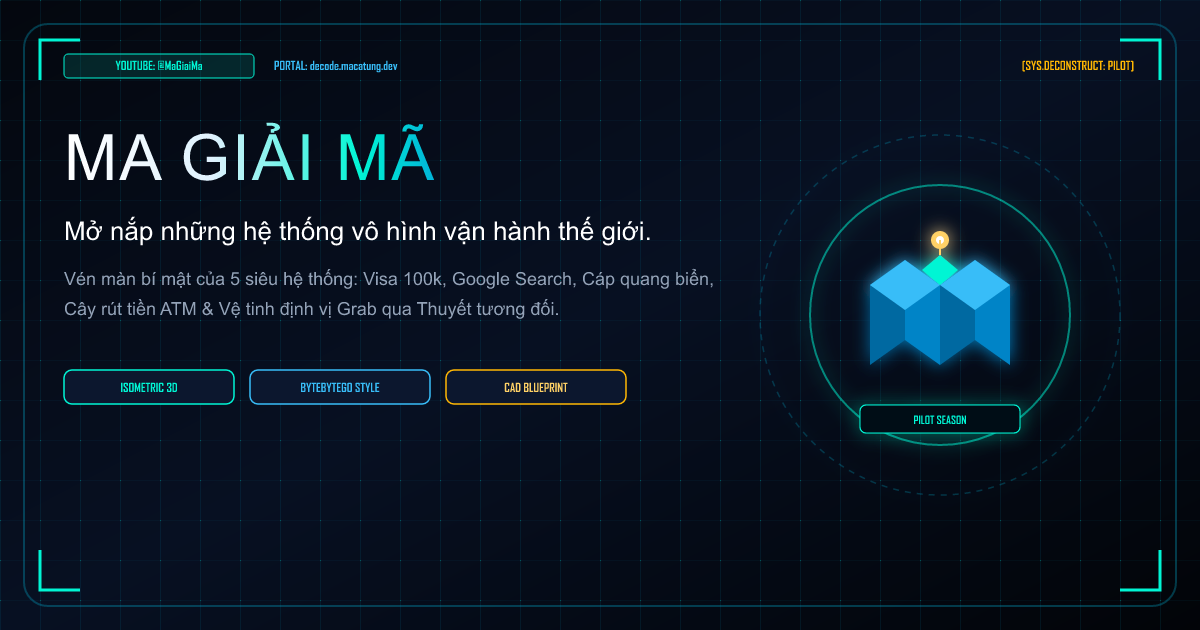
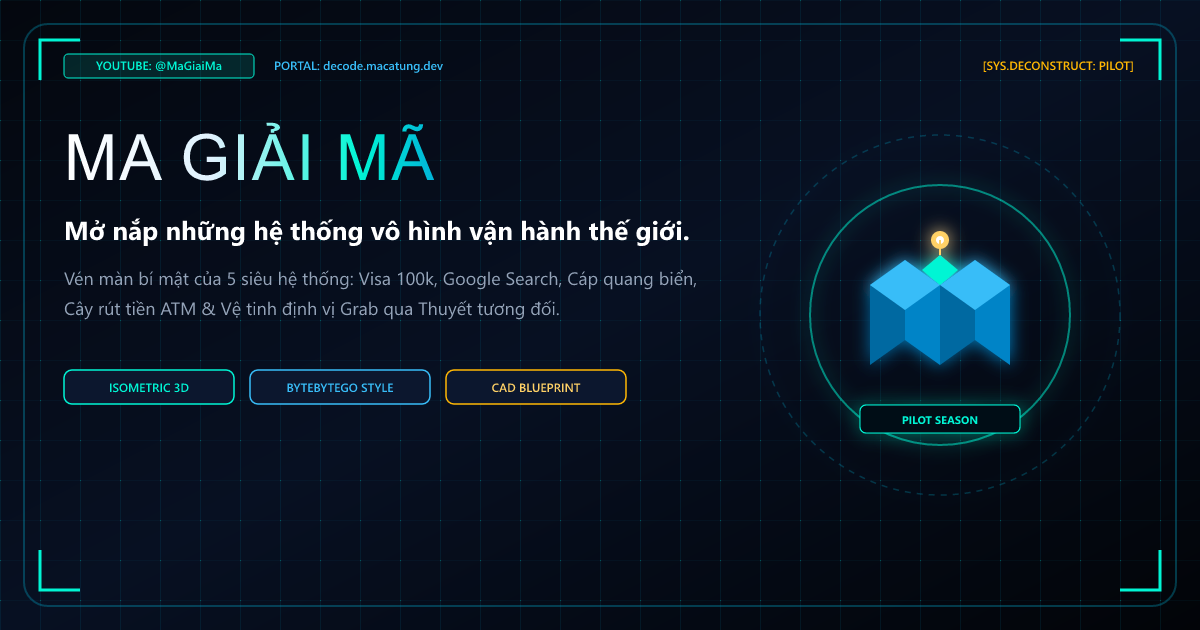
fix(brand): correct Vietnamese typography font stack and glyph fallback for Ma Giai Ma

diff --git a/tailwind.config.js b/tailwind.config.js
@@ -38,7 +38,7 @@ export default {
         sans: ['"Plus Jakarta Sans"', 'system-ui', 'sans-serif'],
         serif: ['"Lora"', '"Merriweather"', 'Georgia', 'serif'],
         pali: ['"Lora"', 'Georgia', 'serif'],
-        display: ['"Space Grotesk"', '"Syne"', 'sans-serif'],
+        display: ['"Be Vietnam Pro"', '"Plus Jakarta Sans"', '"Space Grotesk"', 'sans-serif'],
         mono: ['"JetBrains Mono"', '"Fira Code"', 'monospace'],
         rune: ['"Lora"', 'serif'],
       },

diff --git a/scripts/export_decode_brand.js b/scripts/export_decode_brand.js
@@ -78,6 +78,10 @@ for (const item of exportsList) {
       mode: 'width',
       value: item.width,
     },
+    font: {
+      loadSystemFonts: true,
+      defaultFontFamily: 'Segoe UI',
+    },
     background: item.transparent ? undefined : '#060913',
   });
 

diff --git a/public/brand/decode/README.md b/public/brand/decode/README.md
@@ -44,7 +44,7 @@ Trong hệ sinh thái thương hiệu cá nhân của **Ma Cà Tưng**, hai nhá
 
 ## 🔤 3. Quy Chuẩn Kiểu Chữ (Typography Hierarchy)
 
-- **Logo Title & Display Headlines**: `Space Grotesk` / `Syne` (Bold, Tracking-tight, sắc nét, hiện đại).
+- **Logo Title & Display Headlines**: `Be Vietnam Pro` / `Plus Jakarta Sans` / `Segoe UI` (Đậm nét, hình học hiện đại, hỗ trợ chuẩn xác 100% các dấu thanh tiếng Việt: hỏi, ngã, nặng).
 - **Technical HUD & Telemetry Metrics**: `JetBrains Mono` / `Fira Code` (Monospace chính xác, hiển thị nano-giây, giao thức, payload).
 - **Body & Script Prose**: `Plus Jakarta Sans` / `Inter` (Độ tương phản cao, dễ đọc trên nền tối).
 
